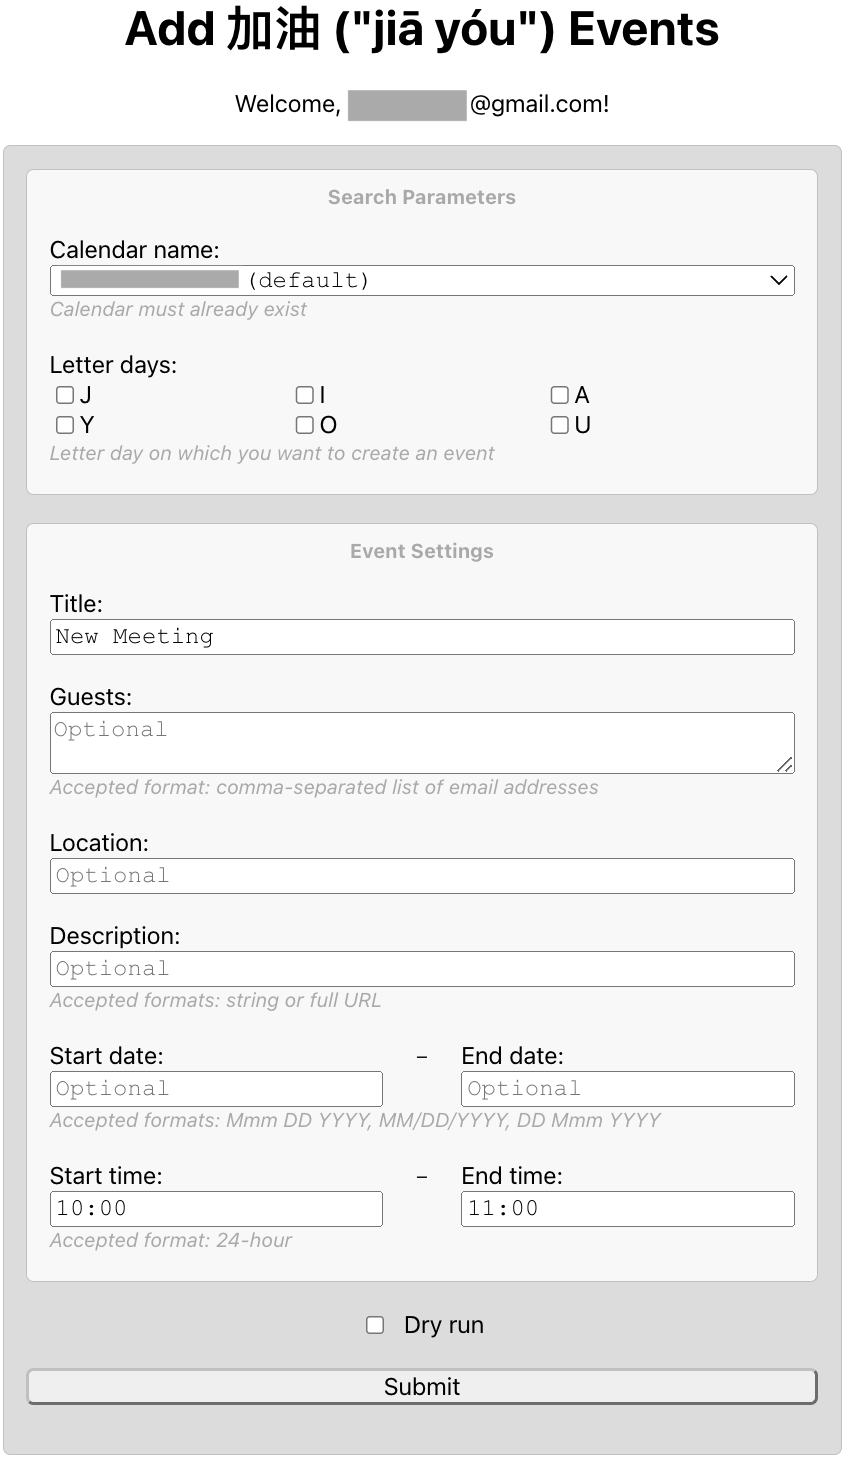
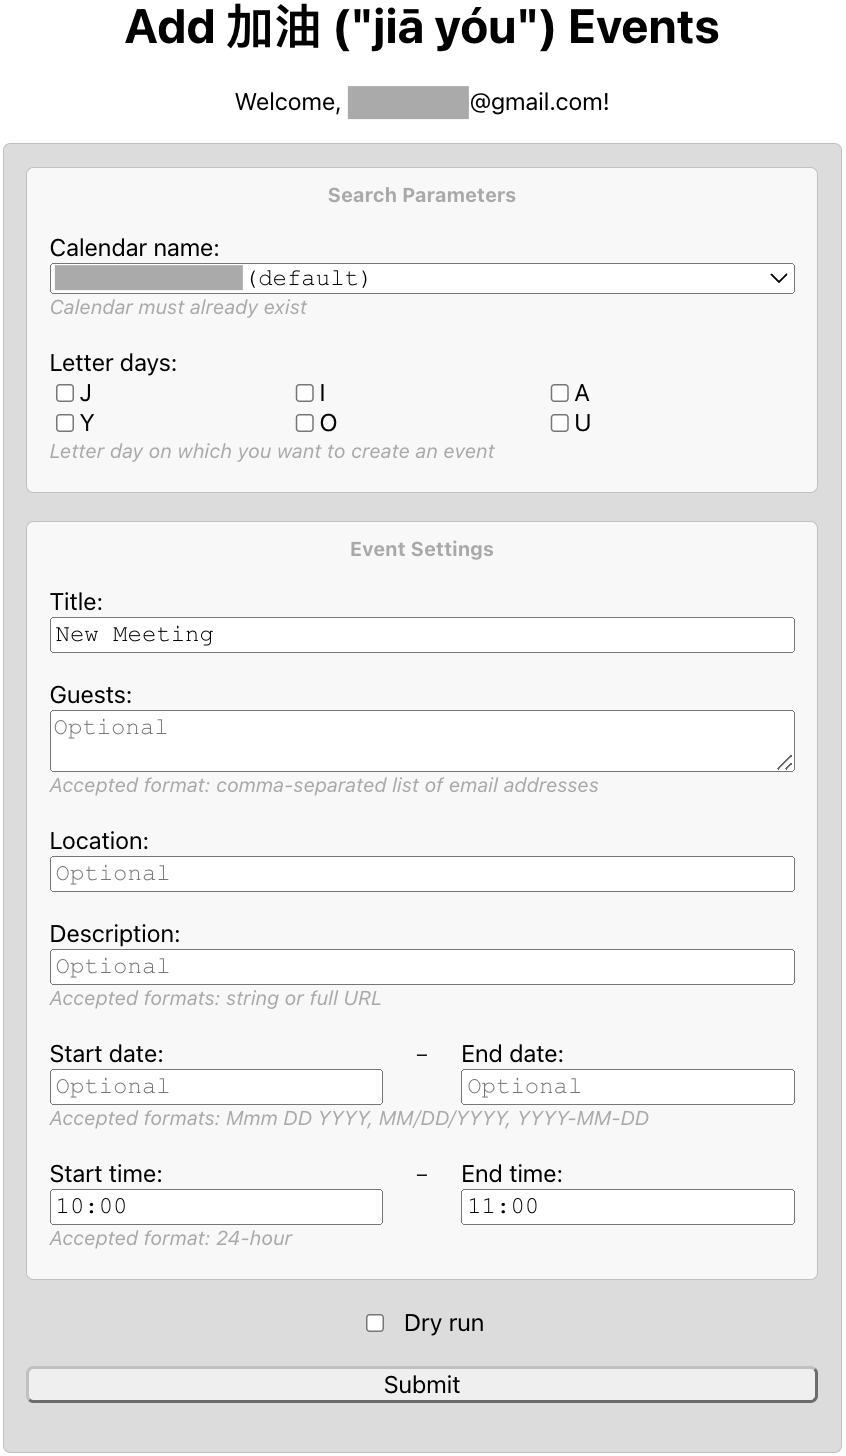
accept iso dates

diff --git a/Index.html b/Index.html
@@ -227,8 +227,7 @@
           </div>
         </div>
         <!-- Confine date range -->
-        <text>Accepted formats: Mmm DD YYYY, MM/DD/YYYY, DD Mmm YYYY</text>
-        <!-- Why not accept YYYY/MM/DD ? Because it defaults to Coordinated Universal Time -->
+        <text>Accepted formats: Mmm DD YYYY, MM/DD/YYYY, YYYY-MM-DD</text>
         <br /><br />
 
         <div id="table">
